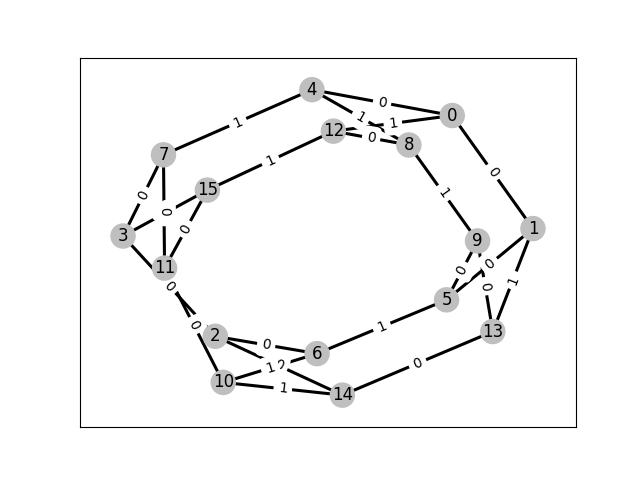
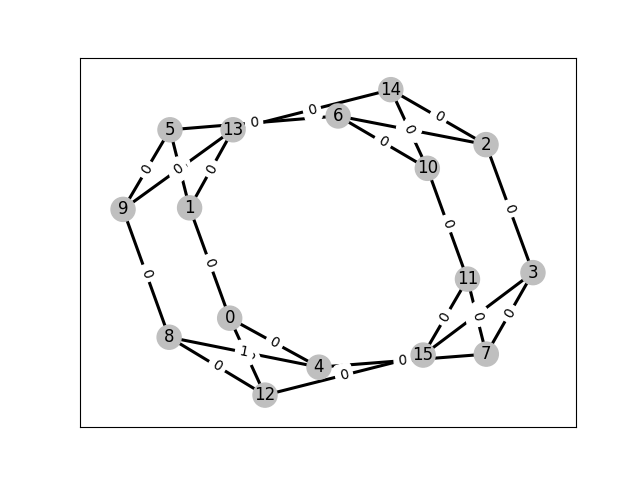
dualgraph is currently doing silly things but we can work it out! :)

diff --git a/conceptTinkering/colorcode/hextorusdual.py b/conceptTinkering/colorcode/hextorusdual.py
@@ -2,8 +2,10 @@ import networkx as nx
 import matplotlib.pyplot as plt
 from pymatching import Matching
 from hextorus import tor_hex48_color_encode, draw_graph_with_colored_edges
+from threecolorize import make_a_base_graph
 import numpy as np
 import random
+from typing import List, FrozenSet
 
 def triang_three_colored_graph(m,n):
     """
@@ -130,36 +132,92 @@ def gen_syndrome_from_subgraph_error(graph, want_array=False):
     else:
         return graph
 
-def dual_of_three_colored_graph(graph):
+def find_6_loops(graph: nx.Graph) -> List[FrozenSet[any]]:
+    cycles = set()
+    for node in graph.nodes:
+        for node1 in graph.neighbors(node):
+            for node2 in graph.neighbors(node1):
+                for node3 in graph.neighbors(node2):
+                    for node4 in graph.neighbors(node3):
+                        for node5 in graph.neighbors(node4):
+                            for node6 in graph.neighbors(node5):
+                                if node6 == node:
+                                    cycles.add(frozenset([node, node1, node2, node3, node4, node5]))
+    faces = [cycle for cycle in cycles if len(cycle) == 6]
+    return faces
+
+def find_face_color(graph: nx.Graph, face: FrozenSet) -> str:
+    rgb = set(['r','g','b'])
+    boundary_colors = set()
+    for node in face:
+        for node2 in face:
+            if node2 in graph.neighbors(node):
+                boundary_colors.add(graph[node][node2]['color'])
+    face_color = rgb - boundary_colors
+    return face_color
+        
+
+def dual_of_three_colored_graph(graph: nx.Graph) -> nx.Graph:
     """
     takes: nx graph with colored edges (does not edit it)
     returns: dual of that graph with colored edges and nodes
     """
-    faces = nx.cycle_basis(graph)
-    for cycle in faces:
-        if len(cycle)!=6:
-            print(cycle)
-            faces.remove(cycle)
+    dual_graph = nx.Graph()
+    fakeone = relabel_graph(triang_three_colored_graph(4,6))
+    pos = nx.get_node_attributes(fakeone, 'pos')
+    faces = find_6_loops(graph)
+    # init nodes
     for i, face in enumerate(faces):
-        print(i)
-    # print(faces)
+        dual_graph.add_node(i, color = 'black')
+        dual_graph.nodes[i]['color'] = find_face_color(graph,face)
+    # prepare node colors
+    node_colors = [data['color'] for _, data in dual_graph.nodes(data=True)] 
+    for i in range(len(node_colors)):
+        if node_colors[i]:
+            node_colors[i] = node_colors[i].pop()
+    # connect nodes
+    for i, face in enumerate(faces):
+        otherfaces = faces[:i]+faces[((i+1)%(len(faces))):]
+        for j, face2 in enumerate(otherfaces):
+            lap_nodes = set(face & face2)
+            print(lap_nodes)
+            if lap_nodes:
+                # A three-colorable graph will only ever have two nodes between two faces
+                node1 = lap_nodes.pop()
+                node2 = lap_nodes.pop()
+                connecting_color = graph[node1][node2]['color']
+                dual_graph.add_edge(i,j, color = connecting_color)
+                
+                edge_colors = [dual_graph[u][v]['color'] for u, v in dual_graph.edges()]
+                nx.draw(dual_graph, pos = pos, node_color=node_colors, edge_color=edge_colors)
+                plt.savefig("img/hexcolor/bla.png")
+
+
+    return dual_graph
+
 
 def main():
-    origG = nx.hexagonal_lattice_graph(4, 6, periodic=True)
-    pos = nx.get_node_attributes(origG, "pos")
-    nx.draw(origG, pos=pos)
-    plt.show()
-    tor_hex48_color_encode(origG)
-    draw_graph_with_colored_edges(origG, "img/hexcolor/original.png")
-
-    dual_of_three_colored_graph(origG)
-    G = triang_three_colored_graph(4,6)
-    subr = subtile(G, "r")
-    subr = relabel_graph(subr)
-    subr = gen_error_for_subgraph(subr)
-    syndrome = gen_syndrome_from_subgraph_error(subr, want_array=True)
-    print(syndrome)
-    decode_subgraph(subr, syndrome)
+    origG = make_a_base_graph()
+    # draw_graph_with_colored_edges_and_nodes(origG, "img/hexcolor/original.png")
+    dual = dual_of_three_colored_graph(origG)
+    # draw_graph_with_colored_edges_and_nodes(dual, "img/hexcolor/dual.png")
+    # node_colors = [data['color'] for _, data in dual.nodes(data=True)] 
+    plt.figure()
+    pos = nx.spring_layout(dual)
+    node_colors = [data['color'] for _, data in dual.nodes(data=True)] 
+    for i in range(len(node_colors)):
+        node_colors[i] = node_colors[i].pop()
+    edge_colors = [dual[u][v]['color'] for u, v in dual.edges()]
+    nx.draw(dual, pos=pos, node_color=node_colors, edge_color=edge_colors)
+    plt.savefig("img/hexcolor/dual.png")
+    # dual_of_three_colored_graph(origG)
+    # G = triang_three_colored_graph(4,6)
+    # subr = subtile(G, "r")
+    # subr = relabel_graph(subr)
+    # subr = gen_error_for_subgraph(subr)
+    # syndrome = gen_syndrome_from_subgraph_error(subr, want_array=True)
+    # print(syndrome)
+    # decode_subgraph(subr, syndrome)
         
 if __name__ == "__main__":
     main()

diff --git a/conceptTinkering/colorcode/threecolorize.py b/conceptTinkering/colorcode/threecolorize.py
@@ -47,10 +47,10 @@ def three_colorize_a_black_graph(G):
             picked_color = random.sample(remaining_colors, 1)[0]
             G[first_node][second_node]['color'] = picked_color
 
-def tor_hex48_color_encode(G: nx.Graph,m=8,n=6):
+def tor_hex48_color_encode(G: nx.Graph,m=6,n=4):
     """
     G: nx Graph
-    n,m: how many by how many hexagon, default to 8 and 6
+    n,m: how many by how many hexagon, default to 6 and 4 like in delfosse
     """
     rgb_list = ['r', 'g', 'b']
     # initialize all edge colors to black
@@ -83,20 +83,20 @@ def tor_hex48_color_encode(G: nx.Graph,m=8,n=6):
             second_coordinate = (2*i+1,(j+1)%(2*m))
             G[first_coordinate][second_coordinate]['color'] = rgb_list[(1-j)%3]
 
+def make_a_base_graph(m=6,n=4) -> nx.Graph:
+    G = nx.hexagonal_lattice_graph(m, n, periodic=True)
+    colorize_graph_black(G)
+    tor_hex48_color_encode(G,m,n)
+    for node in G.nodes:
+        G.nodes[node]['color'] = 'black'
+    return G
+
 def main():
     G = nx.hexagonal_lattice_graph(6, 4, periodic=True)
     colorize_graph_black(G)
     draw(G, "img/hexcolor/original.png")
-    # while any(attr['color'] == 'black' for _, _, attr in G.edges(data=True)): 
-    #     print("I tried :(")
-    #     three_colorize_a_black_graph(G)
     tor_hex48_color_encode(G,6,4)
-    # G[(0,0)][(1,0)]['color'] = 'b'
-    # G[(2,0)][(3,0)]['color'] = 'b'
-    # G[(4,0)][(5,0)]['color'] = 'b'
     draw(G, "img/hexcolor/normal_colorizer.png")
-    # three_colorize_a_black_graph(G)
-    # draw(G)
 
 if __name__ == "__main__":
     main()

diff --git a/conceptTinkering/colorcode/bla.py b/conceptTinkering/colorcode/bla.py
@@ -1,24 +1,6 @@
 import networkx as nx
+# Create a set of frozensets
+set_of_sets = {frozenset({1, 2, 3}), frozenset({4, 5}), frozenset({6, 7, 8})}
 
-G = nx.Graph()  # Initialize a graph
-
-# Add nodes
-G.add_node(0)
-G.add_node(1)
-G.add_node(2)
-
-# Add edges with attributes
-G.add_edge(0, 1, weight=1)
-G.add_edge(1, 2, weight=2)
-G.add_edge(2, 0, weight=3)
-
-# Add attributes to existing edge
-for u, v, attr in G.edges(data=True):
-    if (u, v) == (0, 1):
-        G[u][v]['color'] = 'red'
-
-# Print edges with attributes
-print("Edges with attributes:")
-for u, v, attr in G.edges(data=True):
-    print(f"({u}, {v}): {attr}")
-
+# Print the set of frozensets
+print(set_of_sets)

diff --git a/conceptTinkering/colorcode/plan.md b/conceptTinkering/colorcode/plan.md
@@ -1,0 +1,4 @@
+# plan for dual graph
+- if two sets of original nodes share two ogNodes, then the 
+two sets are connected on the dual graph by the same color
+as the edge connecting the ogNodes on the ogGraph
